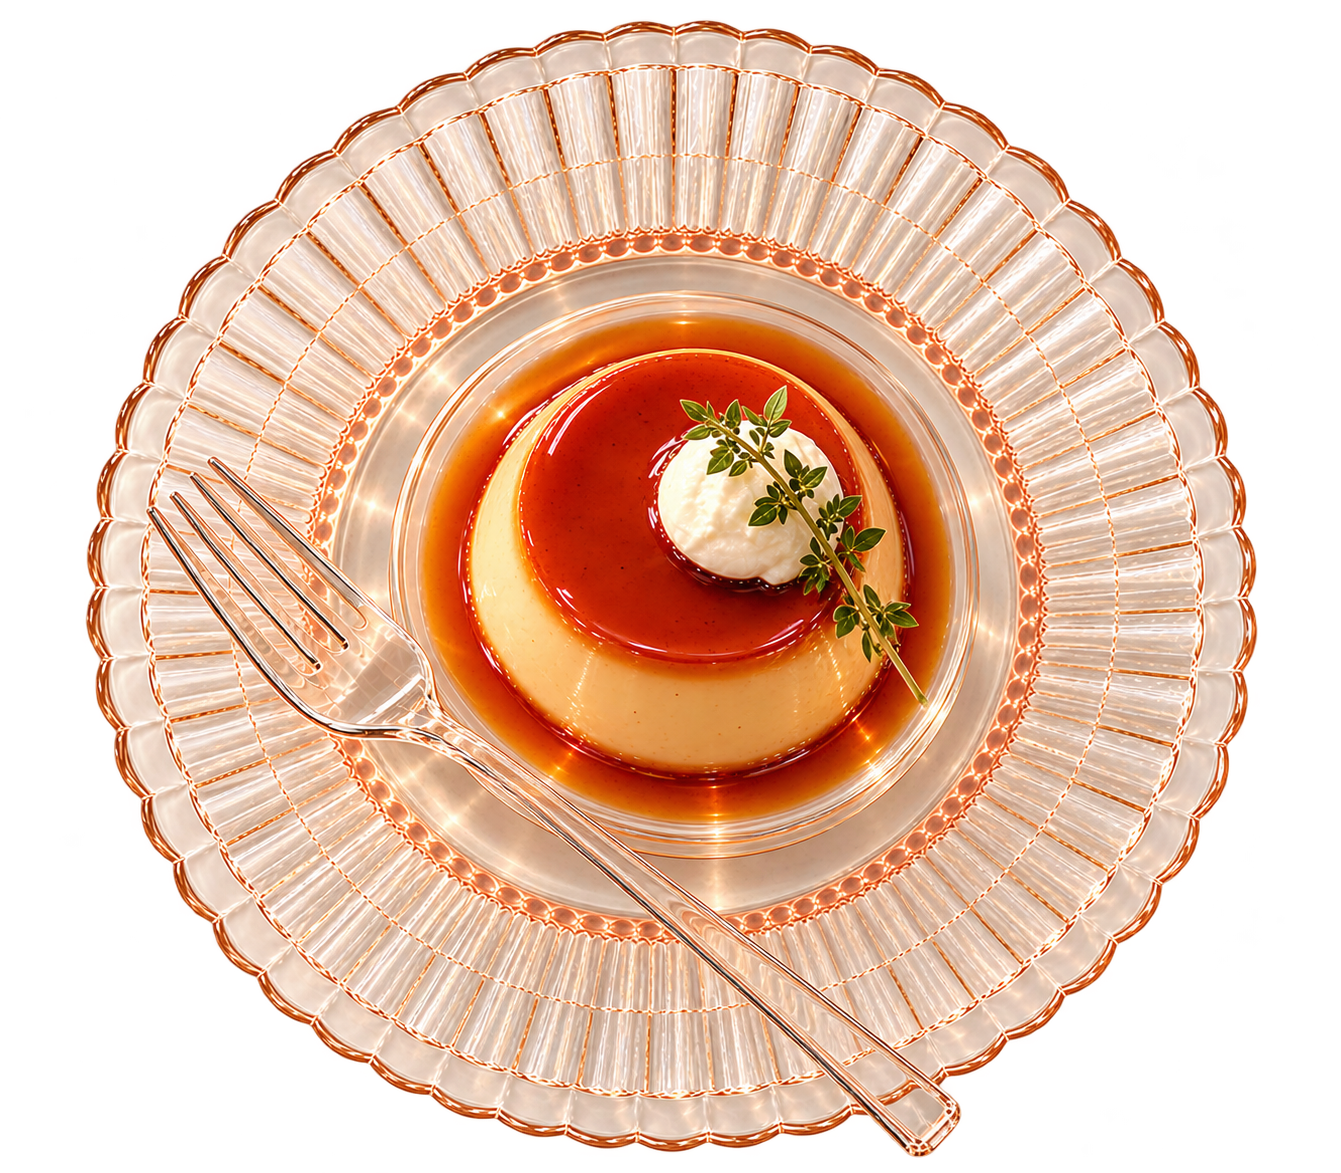
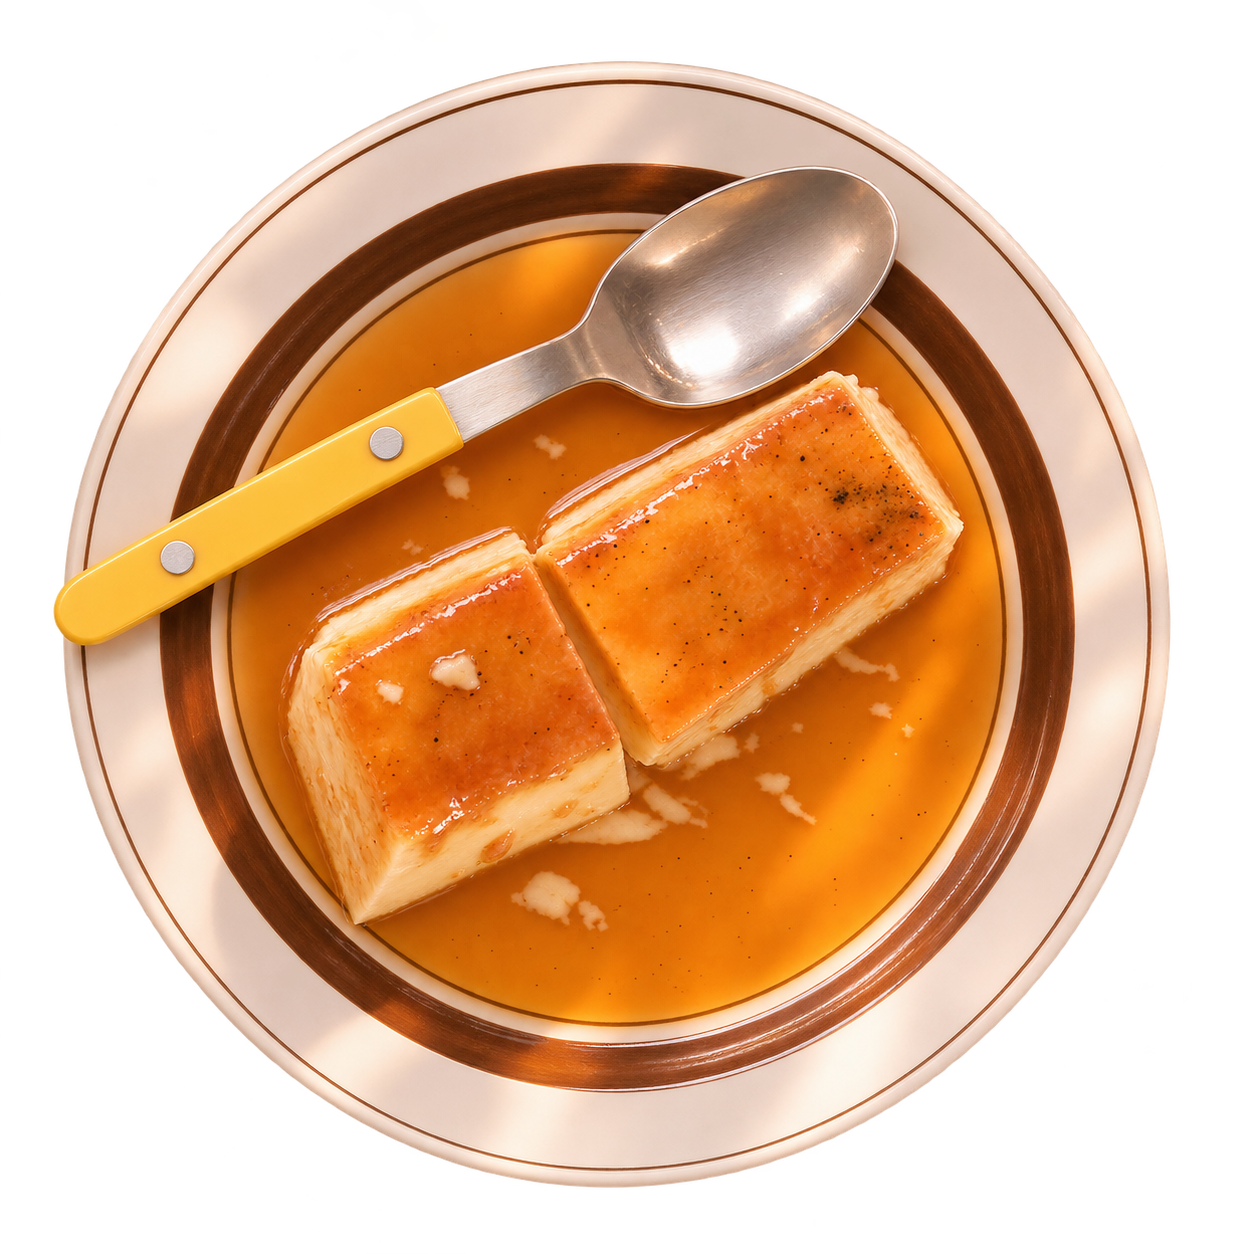
Hero: Added title in the landing page.

diff --git a/src/components/Hero.tsx b/src/components/Hero.tsx
@@ -1,6 +1,11 @@
-import { motion, useAnimation } from "framer-motion";
+import {
+    motion,
+    useAnimation,
+    useScroll,
+    useTransform,
+} from "framer-motion";
 import { ArrowDown } from "lucide-react";
-import { useEffect, useState, type ReactNode } from "react";
+import { useEffect, useRef, useState, type ReactNode } from "react";
 import { openFullscreenWindow } from "@/lib/open-fullscreen";
 import { CursorSpeechBubble } from "./CursorSpeechBubble";
 import { LiveTimeTicker } from "./LiveTimeTicker";
@@ -15,7 +20,6 @@ type HeroObjectDef = {
     src: string;
     alt: string;
     blurb: ReactNode;
-    /** Position / size as % of the stage */
     style: {
         left: string;
         top: string;
@@ -38,7 +42,7 @@ const HERO_OBJECTS: HeroObjectDef[] = [
                 home!
             </>
         ),
-        style: { left: "44%", top: "1%", width: "28%", zIndex: 3 },
+        style: { left: "44%", top: "8%", width: "20%", zIndex: 3 },
     },
     {
         id: "coffee",
@@ -50,7 +54,7 @@ const HERO_OBJECTS: HeroObjectDef[] = [
                 drinks sweet coffee anyway?
             </>
         ),
-        style: { left: "11%", top: "12%", width: "32%", zIndex: 4 },
+        style: { left: "16%", top: "13%", width: "27%", zIndex: 4 },
     },
     {
         id: "book",
@@ -66,9 +70,9 @@ const HERO_OBJECTS: HeroObjectDef[] = [
             </>
         ),
         style: {
-            left: "40%",
-            top: "39%",
-            width: "26%",
+            left: "38%",
+            top: "42%",
+            width: "22%",
             rotate: 8,
             zIndex: 2,
         },
@@ -82,7 +86,7 @@ const HERO_OBJECTS: HeroObjectDef[] = [
                 Who's living with <span className="text-accent">Toast</span>?
             </>
         ),
-        style: { left: "14%", top: "55%", width: "22%", zIndex: 5 },
+        style: { left: "18%", top: "50%", width: "18%", zIndex: 5 },
     },
     {
         id: "leaf",
@@ -96,9 +100,9 @@ const HERO_OBJECTS: HeroObjectDef[] = [
             </>
         ),
         style: {
-            left: "70%",
-            top: "42%",
-            width: "30%",
+            left: "62%",
+            top: "36%",
+            width: "24%",
             rotate: -5,
             zIndex: 4,
         },
@@ -114,7 +118,7 @@ function CafeToastPlaygroundLink() {
                 href={CAFE_TOAST_URL}
                 target="_blank"
                 rel="noopener noreferrer"
-                className="relative shrink-0 text-foreground/85 transition-colors hover:text-foreground after:absolute after:left-0 after:-bottom-1 after:h-px after:w-full after:origin-right after:scale-x-0 after:bg-accent after:transition-transform after:duration-300 hover:after:origin-left hover:after:scale-x-100"
+                className="relative shrink-0 font-mono text-xs uppercase tracking-[0.2em] text-foreground/85 transition-colors hover:text-foreground after:absolute after:left-0 after:-bottom-1 after:h-px after:w-full after:origin-right after:scale-x-0 after:bg-accent after:transition-transform after:duration-300 hover:after:origin-left hover:after:scale-x-100"
                 onClick={(e) => {
                     e.preventDefault();
                     openFullscreenWindow(CAFE_TOAST_URL);
@@ -254,8 +258,19 @@ function HeroObject({
 }
 
 export function Hero() {
+    const sectionRef = useRef<HTMLElement>(null);
+    const { scrollYProgress } = useScroll({
+        target: sectionRef,
+        offset: ["start start", "35% start"],
+    });
+    const headlineOpacity = useTransform(scrollYProgress, [0, 1], [1, 0]);
+    const headlineY = useTransform(scrollYProgress, [0, 1], [0, -10]);
+
     return (
-        <section className="relative min-h-[100svh] overflow-hidden">
+        <section
+            ref={sectionRef}
+            className="relative min-h-[100svh] overflow-hidden"
+        >
             <div
                 className="absolute inset-0 bg-[#f3eee6] bg-cover bg-center"
                 style={{ backgroundImage: "url(/hero/bg.png)" }}
@@ -267,46 +282,95 @@ export function Hero() {
                 aria-hidden
             />
 
-            <div className="relative z-10 mx-auto flex min-h-[100svh] w-full max-w-[1440px] flex-col px-6 pb-24 pt-28 md:px-10 md:pb-28 md:pt-32">
-                <motion.p
-                    initial={{ opacity: 0, y: 8 }}
-                    animate={{ opacity: 1, y: 0 }}
-                    transition={{ duration: 0.6, delay: 0.1 }}
-                    className="relative z-20 mb-4 flex flex-wrap items-center justify-between gap-x-6 gap-y-3 overflow-visible font-mono text-xs uppercase tracking-[0.2em] text-foreground/80 md:mb-6"
-                >
-                    <span className="flex min-w-0 flex-wrap items-center gap-3">
-                        <span className="shrink-0 text-accent">VANCOUVER</span>
-                        <span
-                            className="inline-block h-px w-8 shrink-0 self-center bg-foreground/40"
-                            aria-hidden
+            {/* Objects pinned to section; `top` anchors the stage so copy height can't push them. */}
+            <div className="pointer-events-none absolute inset-x-0 top-[26%] z-10 flex justify-center px-6 md:top-[28%] md:px-10">
+                <div className="pointer-events-auto relative aspect-[16/10] w-full max-w-5xl">
+                    {HERO_OBJECTS.map((object, index) => (
+                        <HeroObject
+                            key={object.id}
+                            object={object}
+                            index={index}
                         />
-                        <span className="inline-flex min-h-[1.35em] items-center overflow-visible py-0.5">
-                            <VancouverWeather />
-                        </span>
-                        <span
-                            className="inline-block h-px w-8 shrink-0 self-center bg-foreground/40"
-                            aria-hidden
-                        />
-                        <span className="inline-flex min-h-[1.35em] items-center overflow-visible py-0.5">
-                            <LiveTimeTicker
-                                timeZone="Etc/GMT+7"
-                                tzLabel="PDT"
-                            />
-                        </span>
-                    </span>
+                    ))}
+                </div>
+            </div>
 
-                    <CafeToastPlaygroundLink />
-                </motion.p>
-
-                <div className="relative mx-auto w-full max-w-5xl flex-1">
-                    <div className="relative aspect-[16/10] w-full min-h-[24rem] sm:min-h-[30rem] md:min-h-0">
-                        {HERO_OBJECTS.map((object, index) => (
-                            <HeroObject
-                                key={object.id}
-                                object={object}
-                                index={index}
+            <div className="pointer-events-none relative z-20 mx-auto flex min-h-[100svh] w-full max-w-[1440px] flex-col px-6 pb-24 pt-28 md:px-10 md:pb-28 md:pt-32">
+                <div className="pointer-events-auto mb-4 flex flex-wrap items-start justify-between gap-x-6 gap-y-4 md:mb-6">
+                    <div className="flex min-w-0 flex-col gap-2.5 md:gap-3">
+                        <motion.p
+                            initial={{ opacity: 0, y: 8 }}
+                            animate={{ opacity: 1, y: 0 }}
+                            transition={{ duration: 0.6, delay: 0.1 }}
+                            className="flex min-w-0 flex-wrap items-center gap-3 overflow-visible font-mono text-xs uppercase tracking-[0.2em] text-foreground/80"
+                        >
+                            <span className="shrink-0 text-accent">
+                                VANCOUVER
+                            </span>
+                            <span
+                                className="inline-block h-px w-8 shrink-0 self-center bg-foreground/40"
+                                aria-hidden
                             />
-                        ))}
+                            <span className="inline-flex min-h-[1.35em] items-center overflow-visible py-0.5">
+                                <VancouverWeather />
+                            </span>
+                            <span
+                                className="inline-block h-px w-8 shrink-0 self-center bg-foreground/40"
+                                aria-hidden
+                            />
+                            <span className="inline-flex min-h-[1.35em] items-center overflow-visible py-0.5">
+                                <LiveTimeTicker
+                                    timeZone="Etc/GMT+7"
+                                    tzLabel="PDT"
+                                />
+                            </span>
+                        </motion.p>
+                        <motion.div
+                            initial={{ opacity: 0, y: 8 }}
+                            animate={{ opacity: 1, y: 0 }}
+                            transition={{ duration: 0.6, delay: 0.18 }}
+                        >
+                            <motion.p
+                                style={{
+                                    opacity: headlineOpacity,
+                                    y: headlineY,
+                                }}
+                                className="font-display text-3xl font-extrabold leading-[1.05] tracking-tight md:text-8xl"
+                            >
+                                <span className="hero-glass-ink">I </span>
+                                <span className="hero-glass-ink-accent">
+                                    design
+                                </span>
+                            </motion.p>
+                        </motion.div>
+                    </div>
+
+                    <div className="flex flex-col items-end gap-2.5 md:gap-3">
+                        <motion.div
+                            initial={{ opacity: 0, y: 8 }}
+                            animate={{ opacity: 1, y: 0 }}
+                            transition={{ duration: 0.6, delay: 0.1 }}
+                        >
+                            <CafeToastPlaygroundLink />
+                        </motion.div>
+                        <motion.div
+                            initial={{ opacity: 0, y: 8 }}
+                            animate={{ opacity: 1, y: 0 }}
+                            transition={{ duration: 0.6, delay: 0.18 }}
+                        >
+                            <motion.p
+                                style={{
+                                    opacity: headlineOpacity,
+                                    y: headlineY,
+                                }}
+                                className="text-right font-display text-3xl font-extrabold leading-[1.05] tracking-tight md:text-8xl"
+                            >
+                                <span className="hero-glass-ink">to </span>
+                                <span className="hero-glass-ink-accent">
+                                    solve problems
+                                </span>
+                            </motion.p>
+                        </motion.div>
                     </div>
                 </div>
             </div>

diff --git a/src/styles.css b/src/styles.css
@@ -163,3 +163,54 @@
             0 28px 52px color-mix(in oklab, var(--accent) 24%, transparent)
         );
 }
+
+/* Frosted glass letterforms (glyph-clipped). True backdrop-filter through
+   text isn't reliably supported, so this uses translucent fills + stroke. */
+.hero-glass-ink {
+    color: transparent;
+    background-image: linear-gradient(
+        165deg,
+        rgb(255 255 255 / 0.88) 0%,
+        rgb(255 255 255 / 0.38) 42%,
+        rgb(255 255 255 / 0.68) 100%
+    );
+    -webkit-background-clip: text;
+    background-clip: text;
+    -webkit-text-stroke: 0.65px rgb(255 255 255 / 0.55);
+    filter: drop-shadow(0 2px 10px rgb(255 255 255 / 0.28));
+}
+
+.hero-glass-ink-accent {
+    color: transparent;
+    background-image: linear-gradient(
+        165deg,
+        color-mix(in oklab, var(--accent) 96%, white) 0%,
+        color-mix(in oklab, var(--accent) 58%, transparent) 48%,
+        color-mix(in oklab, var(--accent) 84%, white) 100%
+    );
+    -webkit-background-clip: text;
+    background-clip: text;
+    -webkit-text-stroke: 0.65px color-mix(in oklab, var(--accent) 48%, white);
+    filter: drop-shadow(
+        0 2px 12px color-mix(in oklab, var(--accent) 36%, transparent)
+    );
+}
+
+.dark .hero-glass-ink {
+    background-image: linear-gradient(
+        165deg,
+        rgb(255 255 255 / 0.68) 0%,
+        rgb(255 255 255 / 0.24) 45%,
+        rgb(255 255 255 / 0.48) 100%
+    );
+    -webkit-text-stroke: 0.65px rgb(255 255 255 / 0.36);
+}
+
+.dark .hero-glass-ink-accent {
+    background-image: linear-gradient(
+        165deg,
+        color-mix(in oklab, var(--accent) 100%, white) 0%,
+        color-mix(in oklab, var(--accent) 62%, transparent) 50%,
+        color-mix(in oklab, var(--accent) 88%, white) 100%
+    );
+}
